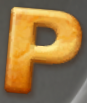
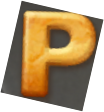
Changed templates to all be oriented perpendicular. Added functionality to test all templates through a rotation to overcome the random rotation of letters.

diff --git a/word-cookies.py b/word-cookies.py
@@ -3,41 +3,52 @@ import time
 import cv2
 from PIL import ImageGrab
 
-# Borders of the entire playable screen are:
+# Borders of the entire playable screen are: (When docked to the left half of the window)
 # (310, 64), (1128, 1514)
 
-# Cookie area is (310, 810) to (1128, 1514)
+# Pan area is (310, 810) to (1128, 1514)
 x1 = 310
 y1 = 64
 x2 = 1128
 y2 = 1514
 
-cookiePanScreenshot = ImageGrab.grab(bbox=(x1, y1, x2, y2))
-cookiePanScreenshot.save('Assets/cookie-pan.png')
+def main():
+    # Grab a screenshot of the word-cookies screen.
+    cookiePanScreenshot = ImageGrab.grab(bbox=(x1, y1, x2, y2))
+    cookiePanScreenshot.save('Assets/cookie-pan.png')
 
-cookiePan = cv2.imread('Assets/cookie-pan.png', 0)
+    cookiePan = cv2.imread('Assets/cookie-pan.png', 0)
 
-letters = ['C','G','M','P','U','Y']
-templates = []
-for letter in letters:
-    t = 'Assets/{}.png'.format(letter)
-    templates.append(cv2.imread(t, 0))
+    # Store all the letters that we know in their imread form in a templates array.
+    letters = ['C','G','M','P','U','Y'] # Letters that we have.
+    templates = []
+    for letter in letters:
+        file_path = 'Assets/{}.png'.format(letter)
+        templates.append(cv2.imread(file_path, 0))
+    
 
-threshold = 0.8
-for template in templates:
-    cookiePanCopy = cookiePan.copy()
-    height, width = template.shape
 
-    result = cv2.matchTemplate(cookiePanCopy, template, cv2.TM_CCOEFF_NORMED)
-    min_val, max_val, min_loc, max_loc = cv2.minMaxLoc(result)
+    findLetters(templates, letters, cookiePan, 0.8)
 
-    location = max_loc
-    top_left = (location[0], location[1])
-    bottom_right = (location[0] + width, location[1] + height)
-    if max_val >= threshold:
-        cv2.rectangle(cookiePanCopy, top_left, bottom_right, 255, 5)
-        cv2.imshow('Match', cookiePanCopy)
-        cv2.waitKey(0)
-        cv2.destroyAllWindows()
-    else:
-        print("No Match")
+
+def findLetters(templates, letters, img, threshold):
+    lettersFound = []
+    for i in range(0,len(templates)):
+        template = templates[i]
+        height, width = template.shape
+
+        # Need to rotate the template because the letters can spawn in any orientation. Then we need to test all these orientations to see if we get a really good match.
+        # [-16,17] step size 8
+        for angle in range(-16,17,8):
+            rotation_matrix = cv2.getRotationMatrix2D((width / 2, height / 2), angle, 1)
+            rotated_template = cv2.warpAffine(template, rotation_matrix, (width, height))
+            result = cv2.matchTemplate(img, rotated_template, cv2.TM_CCOEFF_NORMED) # Resulting width of this new 2D img array is (W - w + 1, H - h + 1) Where W is the width of the base image adn w is the width of template
+            min_val, max_val, min_loc, max_loc = cv2.minMaxLoc(result)
+            if max_val >= threshold:
+                lettersFound.append(letters[i])
+                print(letters[i])
+                break
+
+
+if __name__ == "__main__":
+    main()
